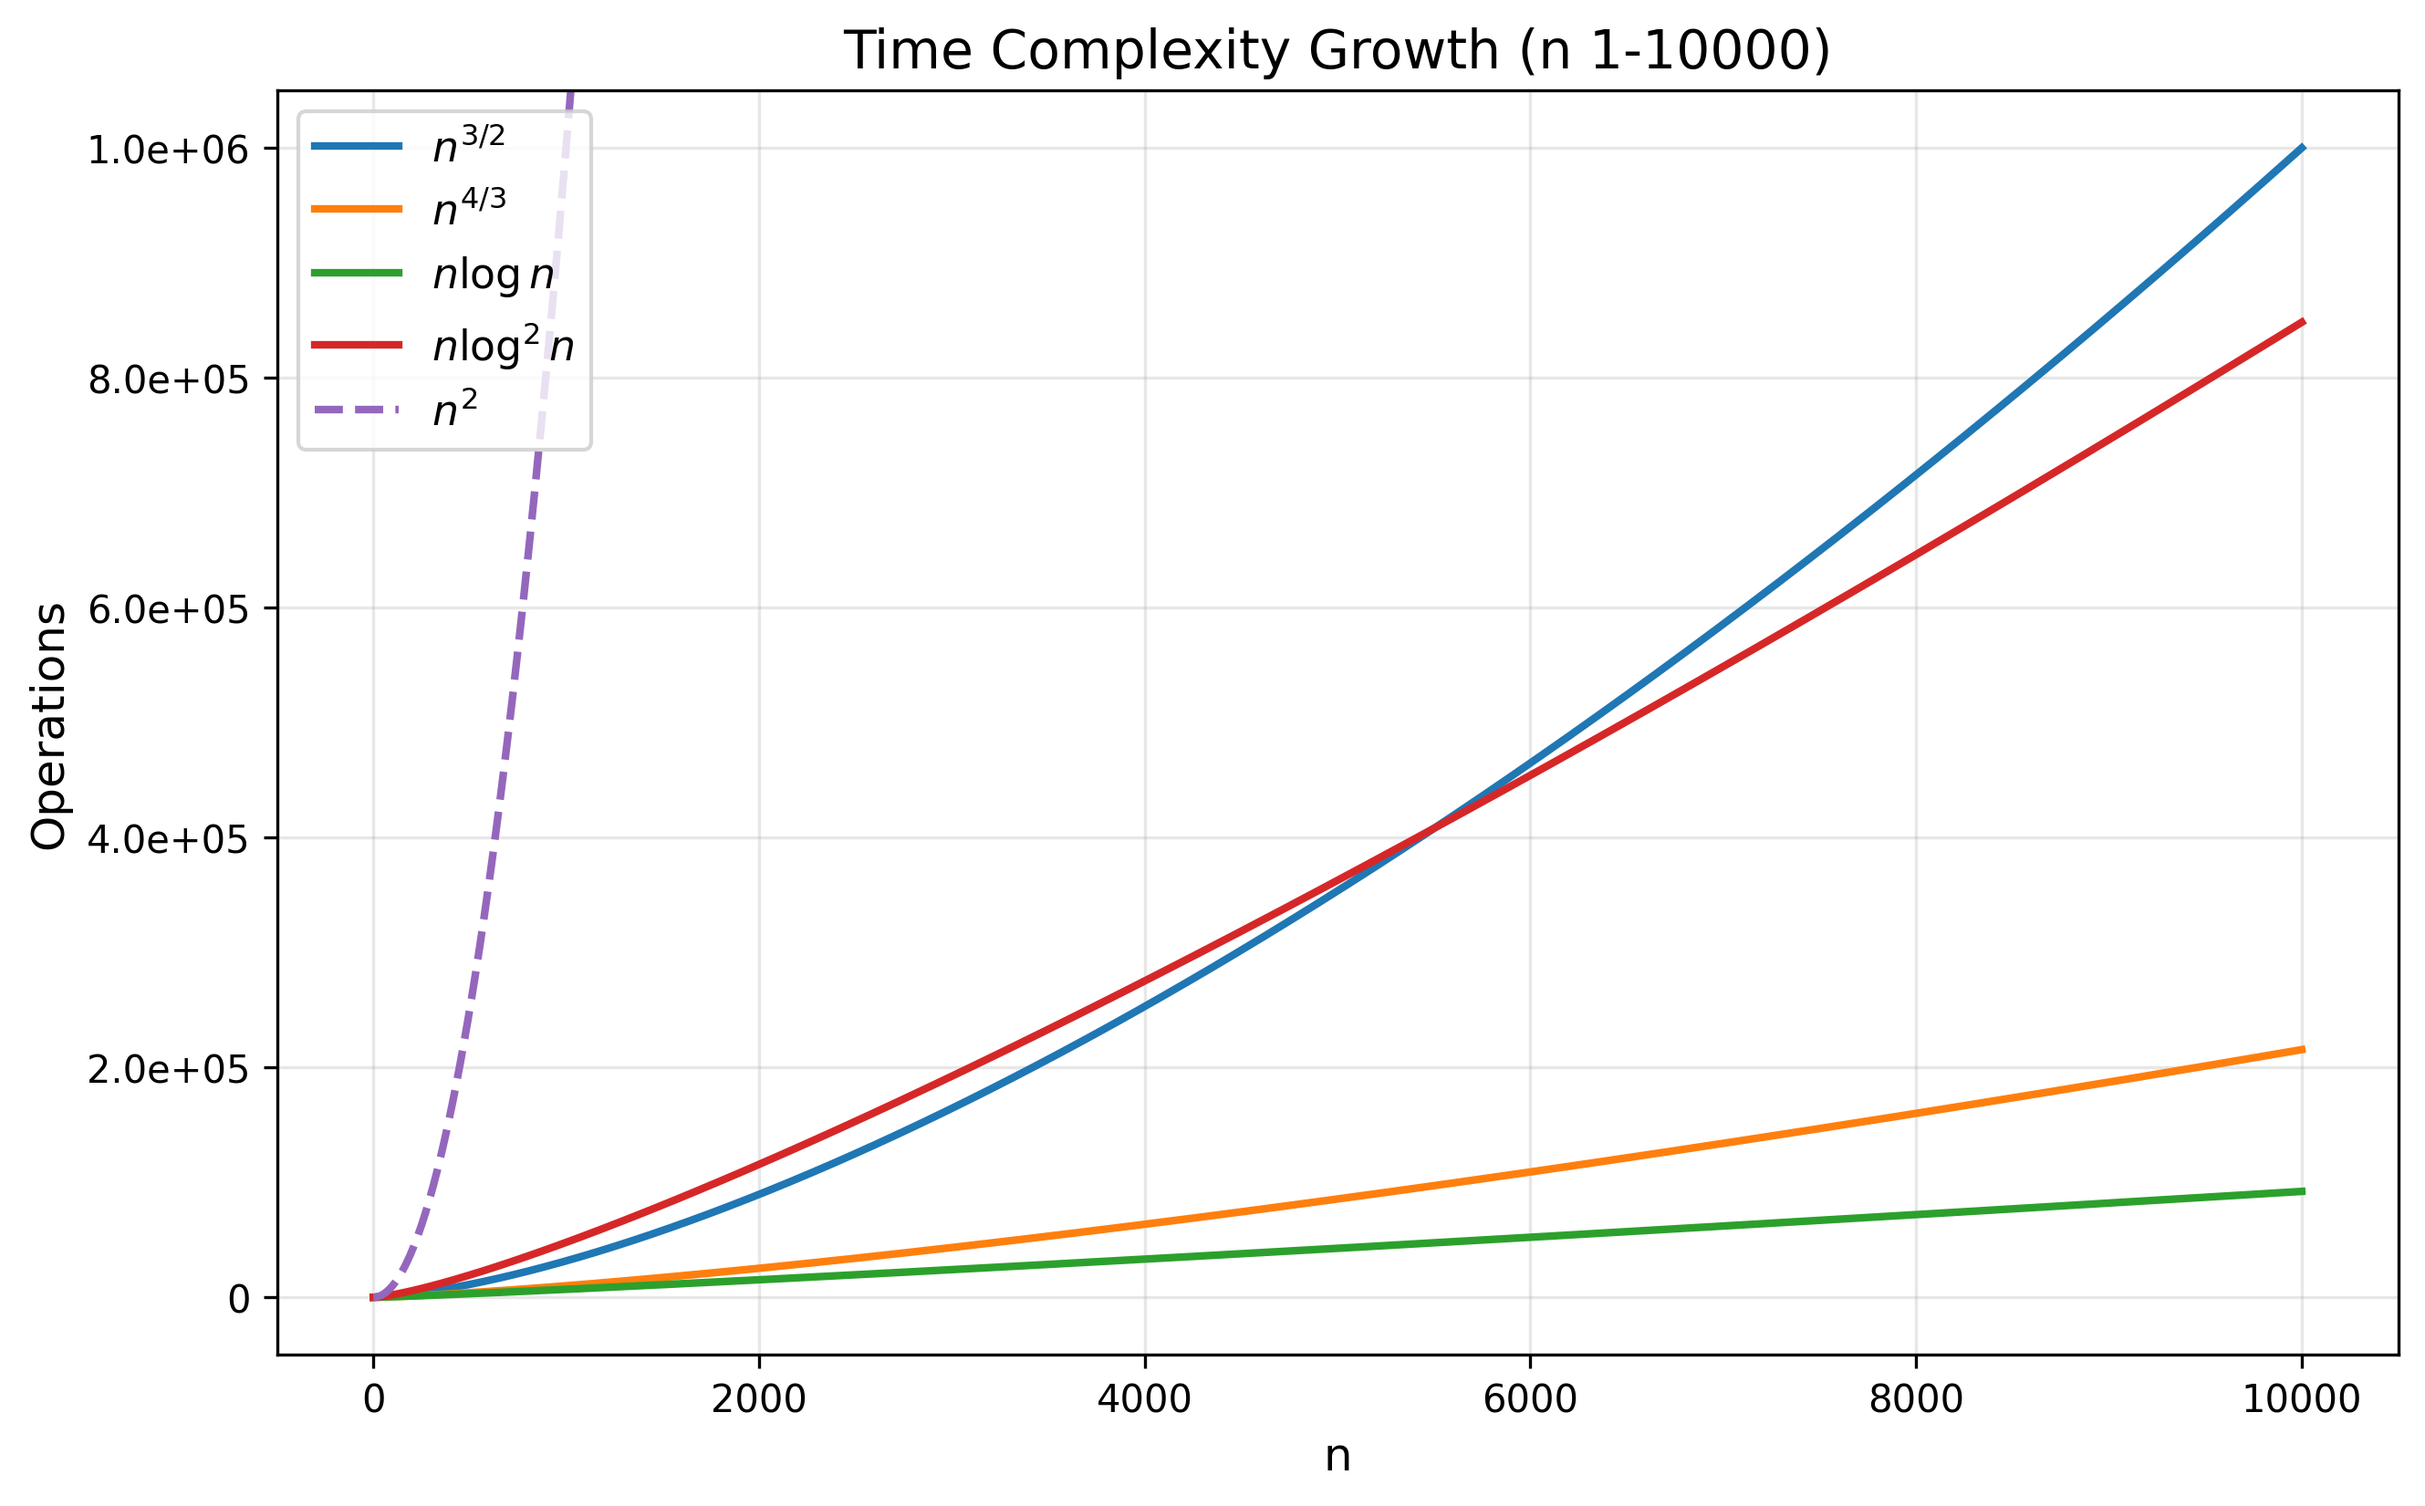
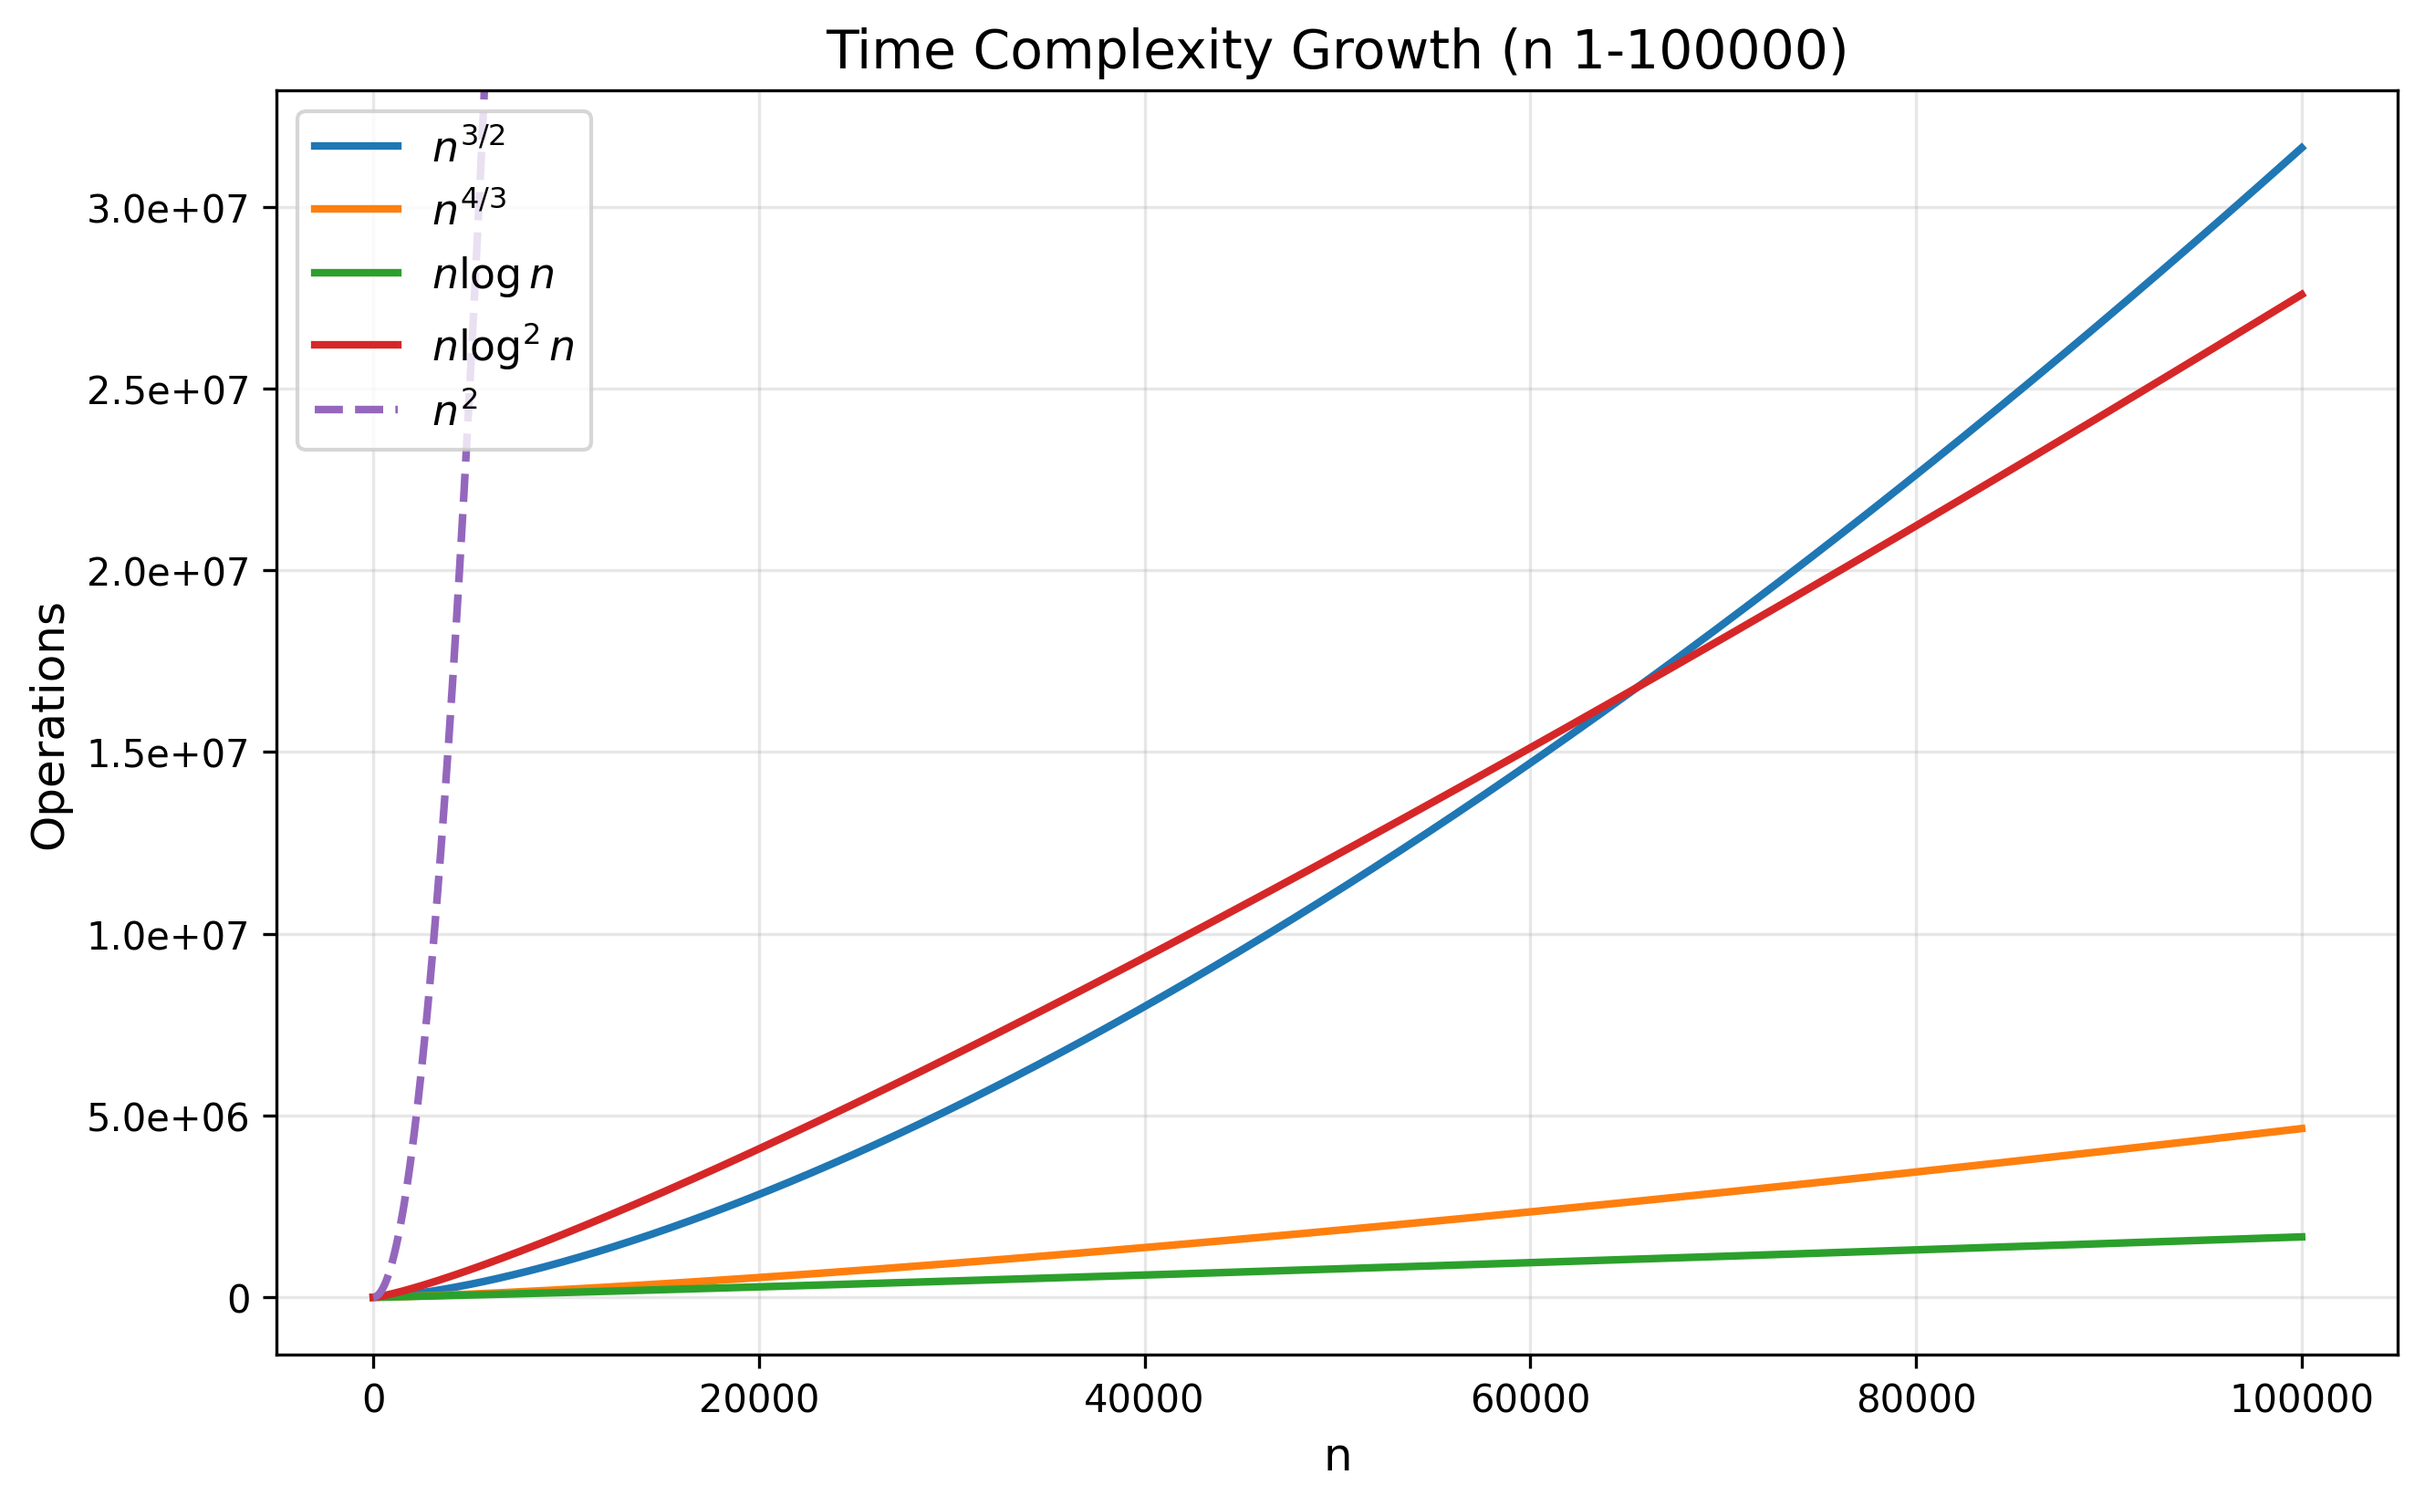
[FEATURE] Updating plotting method

diff --git a/PythonUtilis/ComplexityPloting.py b/PythonUtilis/ComplexityPloting.py
@@ -18,15 +18,15 @@ def sci_notation(x, pos):
 # Create outputs directory if it doesn't exist
 output_dir.mkdir(exist_ok=True)
 
-# Plot 1: Small n (up to 50)
-n_small = np.linspace(1, 50, 1000)
+# Plot 1: Small n (up to 100)
+n_small = np.linspace(1, 100, 1000)
 
 # Calculate complexity functions for small n
 n_squared_small = n_small**2
 n_3_2_small = n_small**(3/2)
 n_4_3_small = n_small**(4/3)
-n_log_n_small = n_small * np.log(n_small)
-n_log2_n_small = n_small * (np.log(n_small)**2)
+n_log_n_small = n_small * np.log2(n_small)
+n_log2_n_small = n_small * (np.log2(n_small)**2)
 
 # Create the plot for small n
 plt.figure(figsize=(10, 6))
@@ -47,7 +47,7 @@ plt.ylim(ylim)
 plt.xlabel('n', fontsize=12)
 plt.ylabel('Operations', fontsize=12)
 plt.gca().yaxis.set_major_formatter(FuncFormatter(sci_notation))
-plt.title('Time Complexity Growth (n 1-50)', fontsize=14)
+plt.title('Time Complexity Growth (n 1-100)', fontsize=14)
 plt.legend(fontsize=11, loc='upper left')
 plt.grid(True, alpha=0.3)
 
@@ -57,15 +57,15 @@ plt.savefig(output_path_small, dpi=300, bbox_inches='tight')
 print(f"Small n plot saved to: {output_path_small}")
 plt.close()
 
-# Plot 2: Large n (up to 10000)
-n_large = np.linspace(1, 10000, 1000)
+# Plot 2: Large n (up to 100000)
+n_large = np.linspace(1, 100000, 1000)
 
 # Calculate complexity functions for large n
 n_squared_large = n_large**2
 n_3_2_large = n_large**(3/2)
 n_4_3_large = n_large**(4/3)
-n_log_n_large = n_large * np.log(n_large)
-n_log2_n_large = n_large * (np.log(n_large)**2)
+n_log_n_large = n_large * np.log2(n_large)
+n_log2_n_large = n_large * (np.log2(n_large)**2)
 
 # Create the plot for large n
 plt.figure(figsize=(10, 6))
@@ -86,7 +86,7 @@ plt.ylim(ylim)
 plt.xlabel('n', fontsize=12)
 plt.ylabel('Operations', fontsize=12)
 plt.gca().yaxis.set_major_formatter(FuncFormatter(sci_notation))
-plt.title('Time Complexity Growth (n 1-10000)', fontsize=14)
+plt.title('Time Complexity Growth (n 1-100000)', fontsize=14)
 plt.legend(fontsize=11, loc='upper left')
 plt.grid(True, alpha=0.3)
 
